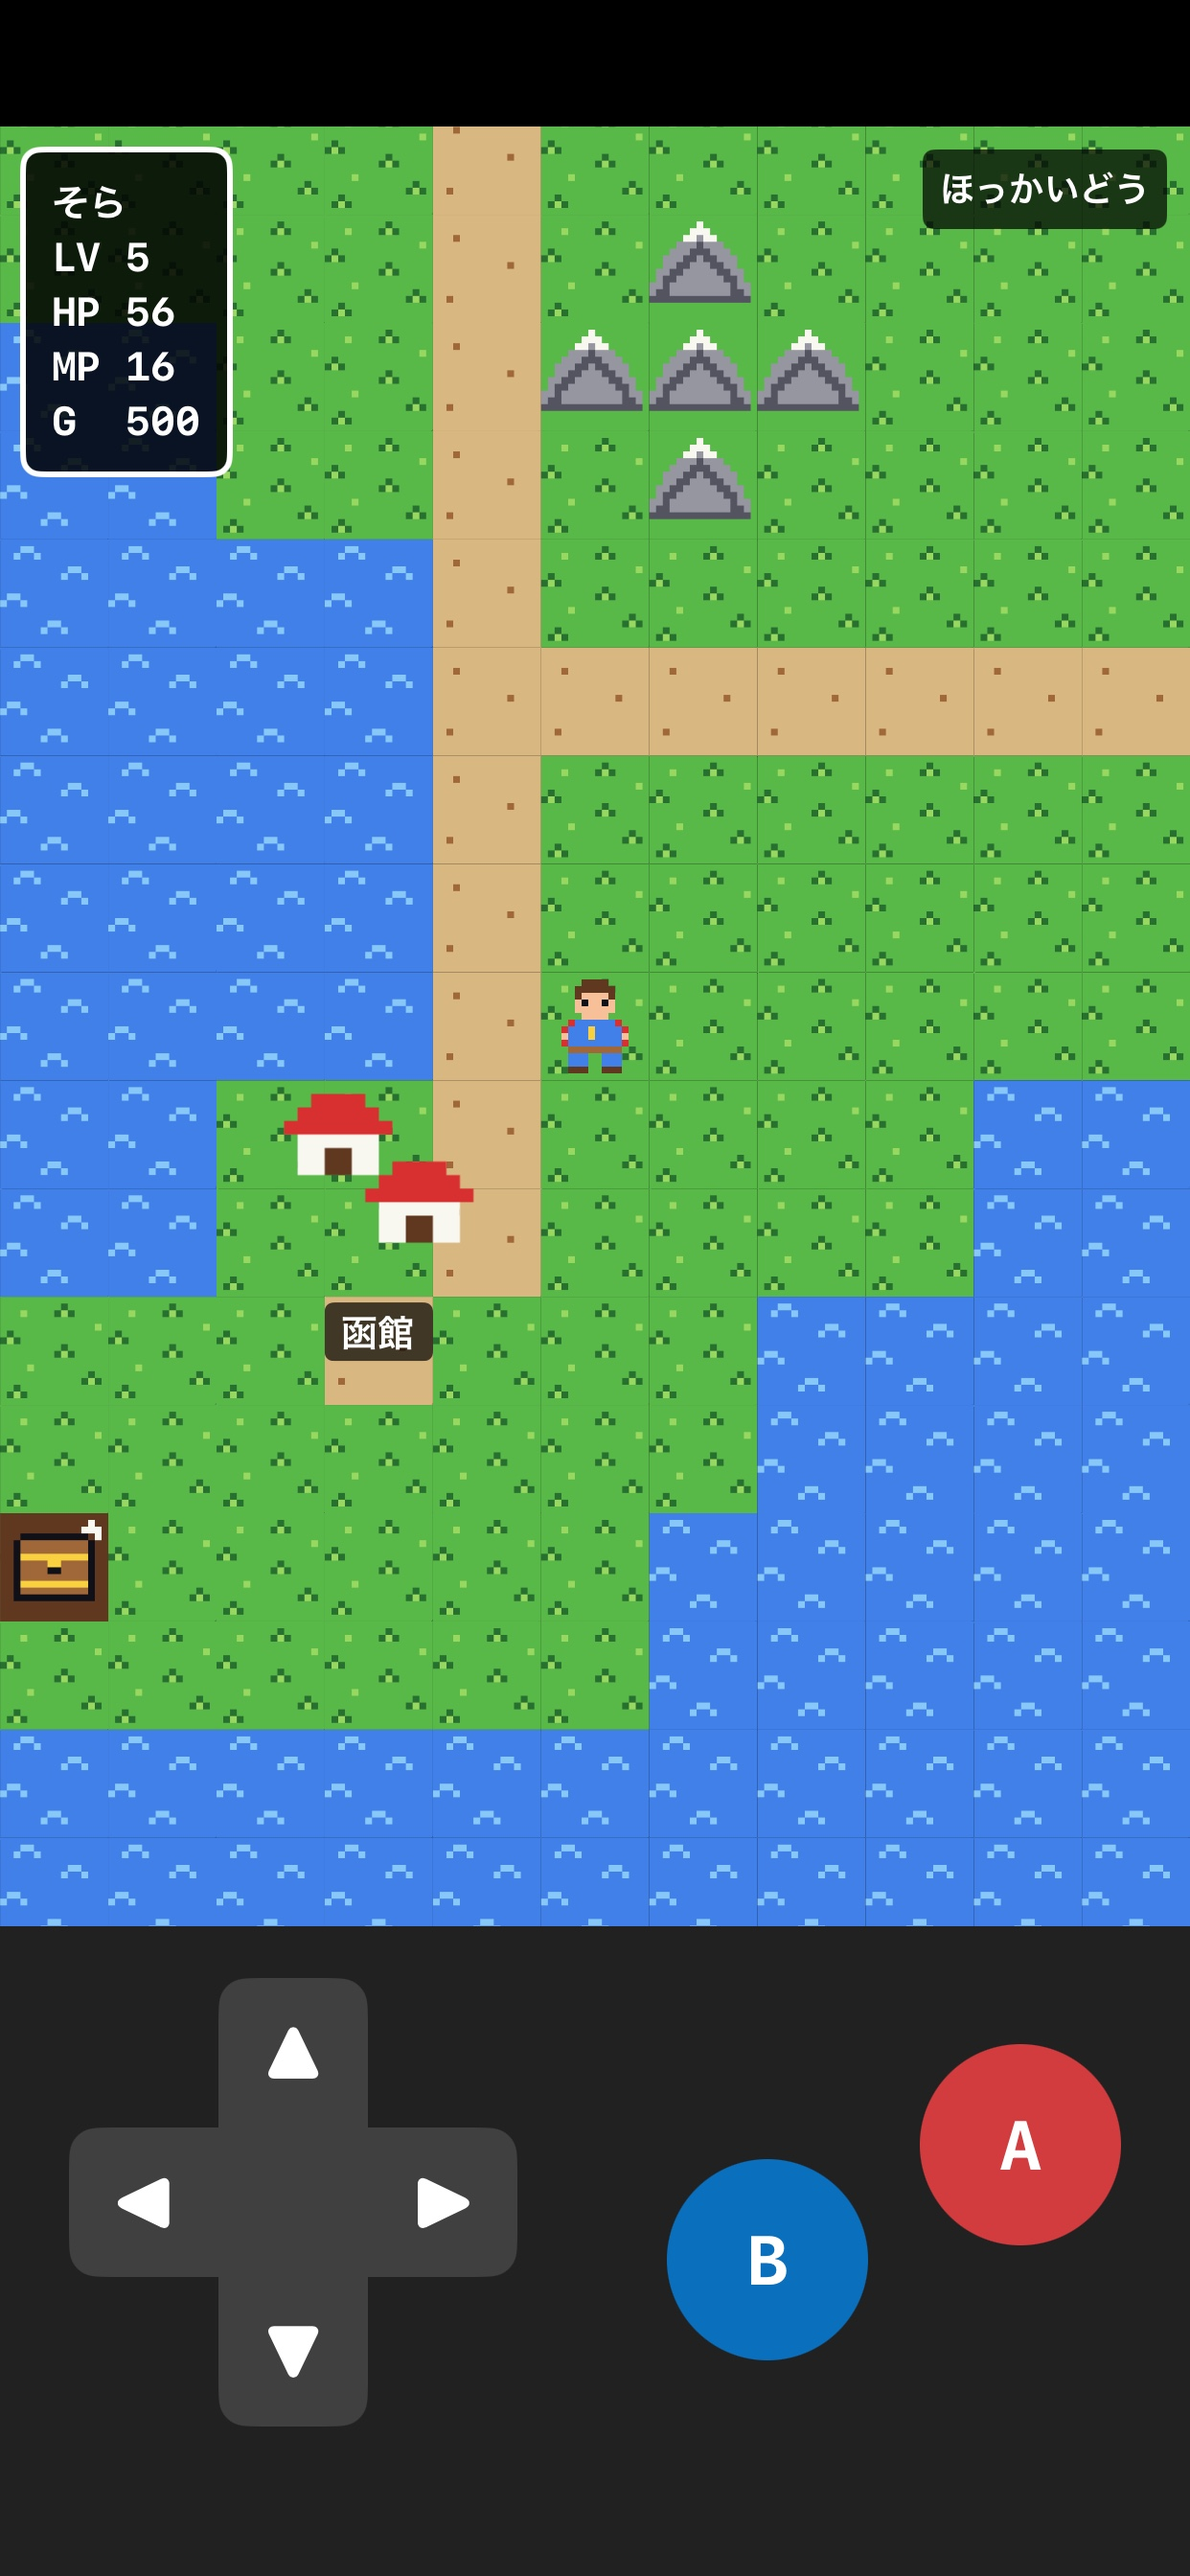
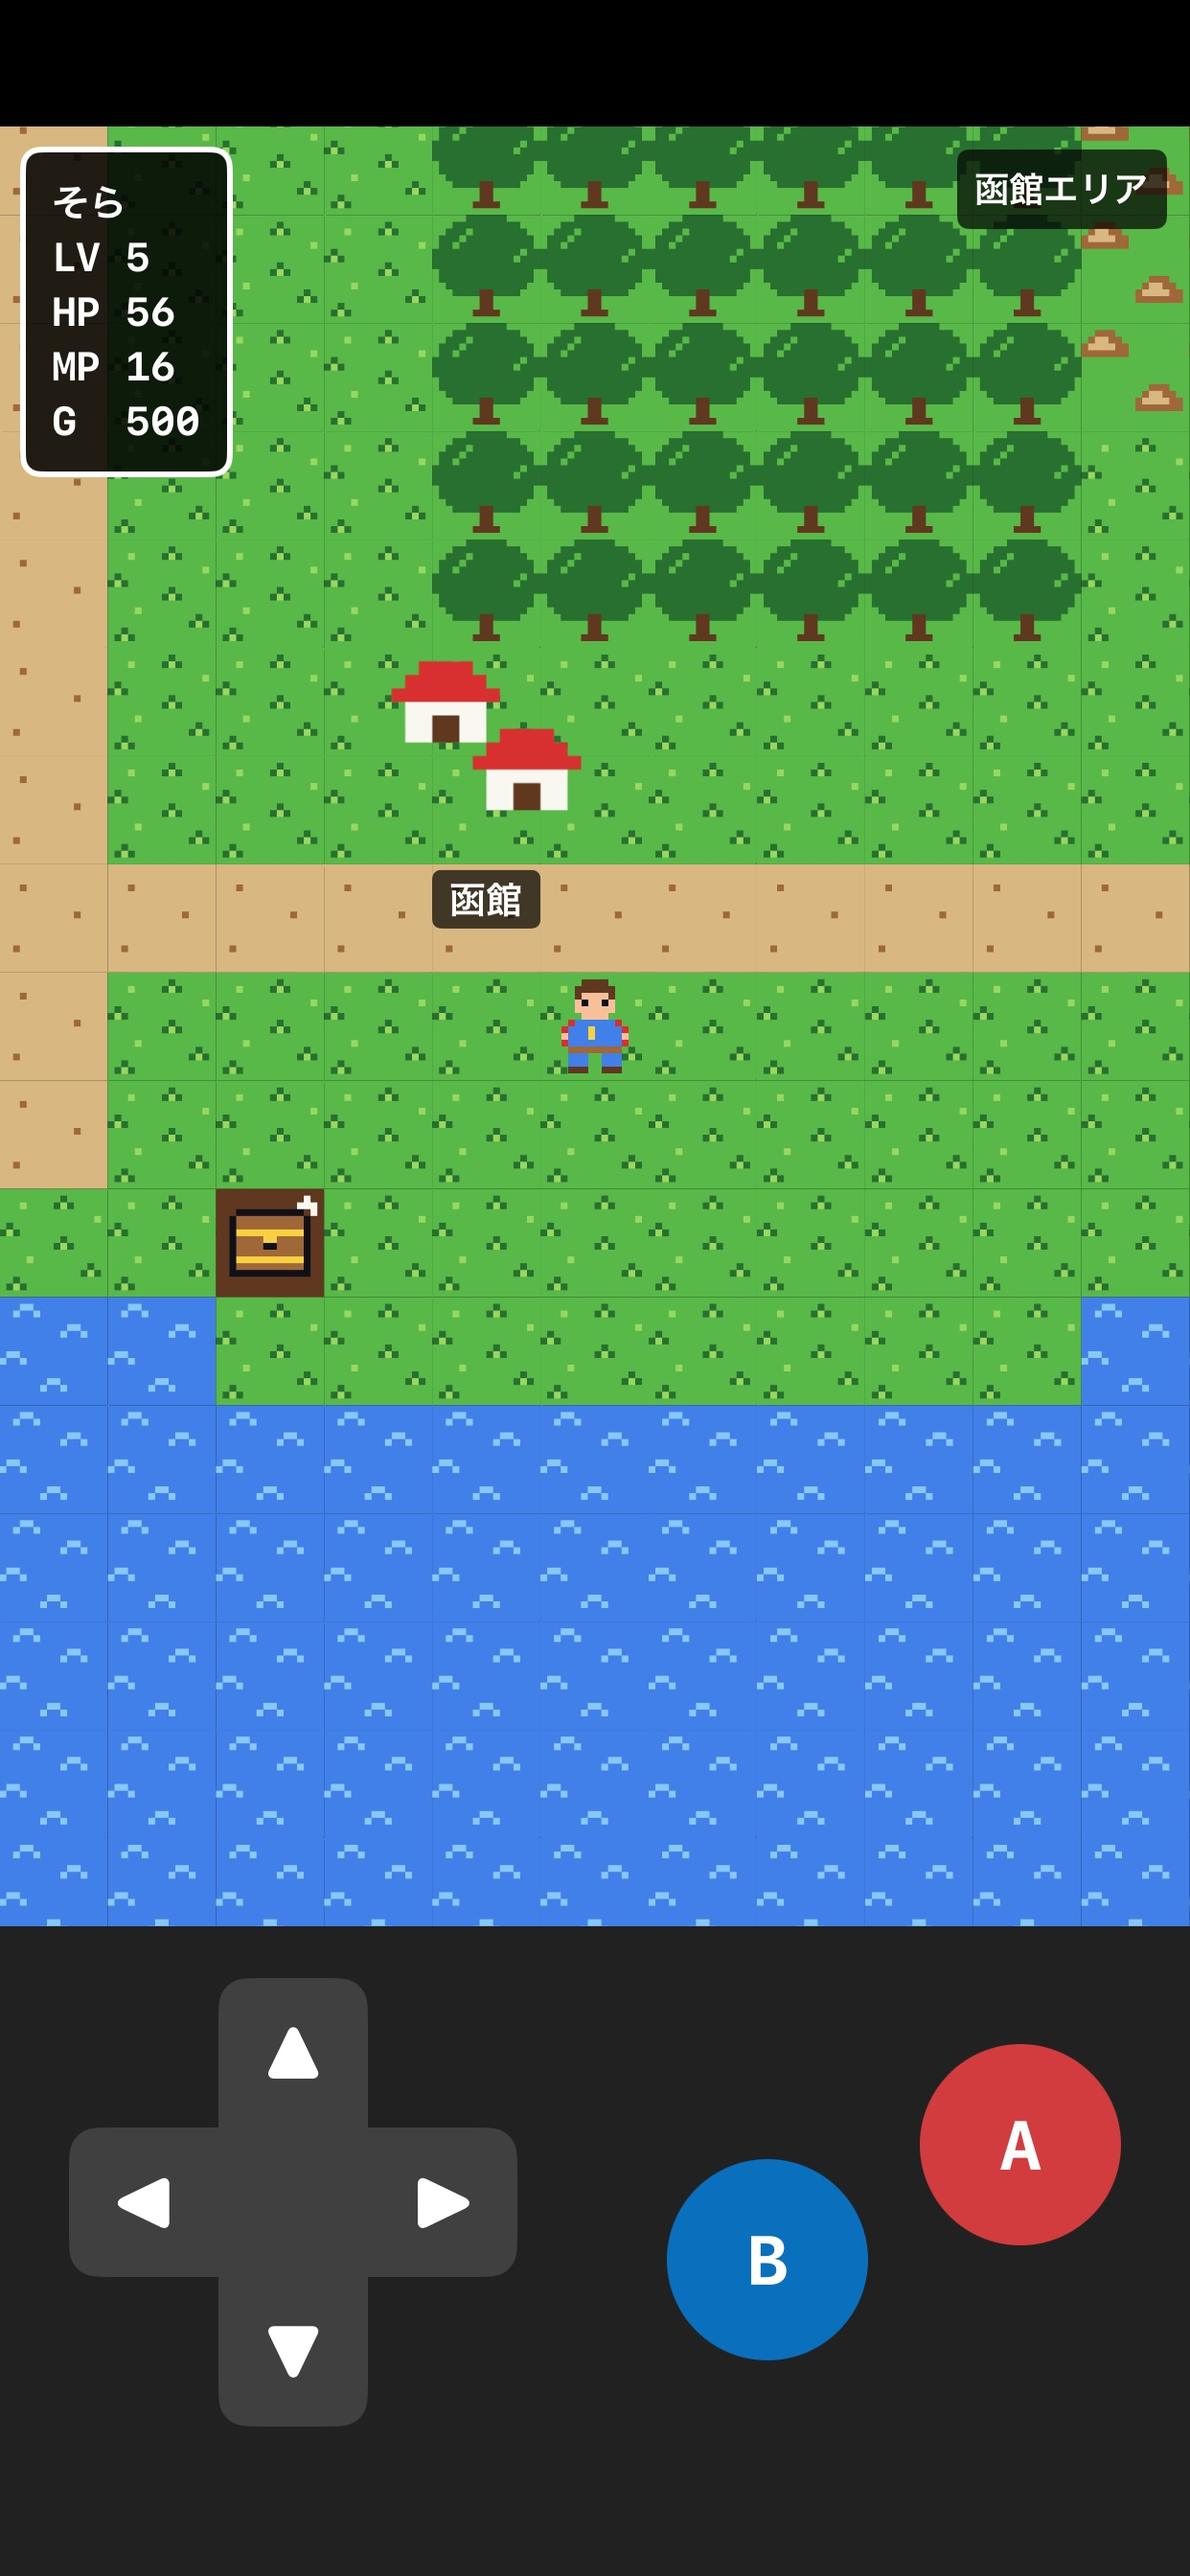
GeoHero: 1.1 の ストア用スクショと 文面を 書きかえ、審査に 提出した
- スクショを 6枚に 撮り直す（タイトル・フィールド・大沼・ちしきの チャンス・天狗・小樽の道具屋）
- 説明文・このバージョンの新機能・キーワード・英語案を 1.1 の中身に あわせる
- 2026-09-26 に 1.1（ビルド6）を 審査へ 提出

diff --git a/Apps/GeoHero/Docs/Store/listing.md b/Apps/GeoHero/Docs/Store/listing.md
@@ -11,7 +11,7 @@
 | サブタイトル | 北海道を歩く ドット絵のコマンドRPG |
 | ホーム画面の名前 | 地理の勇者（`CFBundleDisplayName`） |
 | バンドルID | `tech.sesame.geohero` |
-| バージョン / ビルド | 1.0 / 1 |
+| バージョン / ビルド | 1.1 / 6（1.0 / 1 は公開ずみ） |
 | プライマリ言語 | 日本語 |
 | カテゴリ | ゲーム → ロールプレイング（第2カテゴリ: アドベンチャー） |
 | 価格 | 無料（アプリ内課金なし） |
@@ -22,40 +22,64 @@
 
 ## 説明文（4000文字まで）
 
+1.1 で 3地方・9つの街に広げたので書き直した（2026-09-26）。
+
 ```
-北海道を歩いて、あやつられた守護神を解きはなつ——
-ドット絵とコマンド戦闘の、ちいさな一本道RPGです。
+北海道を旅して、まおうに あやつられた守護神を解きはなつ——
+歩いて 話して 地理を おぼえる、ドット絵のコマンドRPGです。
 
-■ 30分〜1時間で終わる、ちょうどいい冒険
-函館から札幌、そして知床へ。街で装備をととのえ、近くの山のほらあなへ。
-奥のぬしを倒すと 次の道がひらけます。これを3回くりかえすと結末です。
+■ 3つの地方を 飛行機でめぐる
+函館エリア（道南）→ 札幌・小樽 → 知床。
+地方ごとに 広いフィールドがあり、ボスを倒して もらう きっぷで
+空港から 次の地方へ 飛びます。
 
-■ 実在の地名を歩く
-舞台は北海道のかたちをした1枚の広いフィールド。
-函館・函館山・札幌・藻岩山・知床・羅臼岳を、街道づたいにたどります。
-次の目印へ近づくほど、出てくる魔物も手ごわくなります。
+■ 9つの街と 6つのほらあな
+函館・松前・大沼、札幌・小樽・定山渓、中標津・ウトロ・羅臼。
+五稜郭、松前城、大沼の島めぐり、小樽運河、定山渓の足湯、知床五湖……
+街を歩いて 人と話し、家に入り、名所の看板を読んで 物語を進めます。
+
+■ 地理の知識が 武器になる「ちしきの チャンス」
+こうげきすると ときどき 地理の問題が出ます。正解すれば おいうち！
+答えは 街の人や 看板が 教えてくれます。
+
+■ 寄り道も たっぷり
+ラーメンの出前、まいごの 白鳥のひな・ネコ・キツネの子さがし、
+名所をめぐる「めいしょスタンプ」、宝箱のある家。
+
+■ 名産の 道具と 装備
+ハスカップ、いかめし、みそラーメン、いくら丼。
+五稜郭の槍、松前の刀、小樽ガラスの剣、アットゥシ……
+お金をためて 上等な装備を ねらいましょう。
 
 ■ 北海道の魔物たち
-ポテトー、こんぶスライム、ホタテキッド、きたきつね、タラこぞう、
-ゆきおとこ、りゅうひょうゴーレム。1〜3体で出てきます。
-
-■ なつかしいコマンド戦闘
-こうげき・まほう・どうぐ・にげる。会心の一撃も出ます。
-レベルが上がると どこが伸びたか ひと目でわかり、
-ヒール・ファイア・ハイヒール・フレイムの4つを順に覚えます。
-やどやに泊まると自動でセーブします。
+ポテトー、こんぶスライム、さくらのせい、ななえりんご、ラーメンおばけ、
+シャチまる、りゅうひょうゴーレム。
+ボスは イカのぬし、駒ヶ岳のぬし、天狗、ヒグマのぬし、トドのぬし、そして 知床の守護神。
 
 ■ 絵も音も、すべてコードで
-ドット絵は16×16の文字列から、BGMと効果音はその場で合成しています。
+ドット絵は文字列から、BGMと効果音は その場で合成しています。
 外部の素材は使っていません。
 
 広告なし・課金なし・通信なし。オフラインで遊べます。
 ```
 
+## このバージョンの新機能（1.1）
+
+```
+大型アップデート！
+・北海道を 函館エリア／札幌・小樽／知床の 3地方に分け、空港から 飛行機で 旅するように
+・街が 3つから 9つに（松前・大沼・小樽・定山渓・中標津・ウトロ など）。家にも 入れます
+・新しいボス（駒ヶ岳のぬし・天狗・トドのぬし）と 新しい魔物
+・こうげき中に ときどき出る「ちしきの チャンス」。正解で おいうち
+・名産に ちなんだ 道具・装備が 22しゅるいに
+・寄り道の 頼まれごとと「めいしょスタンプ」
+・会話の 読みやすさや 戦いの バランスを 見なおしました
+```
+
 ## キーワード（100文字まで、カンマ区切り）
 
 ```
-RPG,ロールプレイング,ドット絵,レトロ,北海道,コマンドバトル,オフライン,広告なし,短編,冒険
+RPG,ドット絵,レトロ,北海道,地理,クイズ,函館,札幌,小樽,知床,コマンドバトル,オフライン,広告なし,冒険
 ```
 
 ## 英語（English (U.S.)）の掲載情報
@@ -69,22 +93,31 @@ RPG,ロールプレイング,ドット絵,レトロ,北海道,コマンドバト
 | Subtitle | Pixel-art RPG across Hokkaido |
 
 ```
-A small, hand-made RPG set on the island of Hokkaido, Japan.
+A hand-made RPG that travels across Hokkaido, Japan.
 Note: the game text is in Japanese only.
 
-- A one-hour adventure. Three towns, three caves, three bosses.
-- Real places: Hakodate, Mt. Hakodate, Sapporo, Mt. Moiwa, Shiretoko, Mt. Rausu.
-- Monsters get tougher the closer you walk to the next landmark.
-- Classic turn-based battles: Fight, Magic, Item, Run.
+- Three regions: Hakodate, Sapporo & Otaru, and Shiretoko. Fly between them from real airports.
+- Nine towns to explore: talk to people, enter houses, read landmark signs.
+- Geography quizzes pop up during attacks. Answer right for a bonus hit.
+- Side quests, a landmark stamp rally, and local-specialty items and gear.
+- Six bosses, including the Squid Lord, a Tengu, and the Guardian of Shiretoko.
 - Every sprite and every note is generated in code. No external assets.
 
 No ads. No in-app purchases. No network access. Plays fully offline.
 ```
 
+What's New（英語, 1.1）:
+
+```
+Big update! Hokkaido is now three regions (Hakodate, Sapporo & Otaru, Shiretoko) linked by flights.
+Nine towns with houses to enter, three new bosses, geography quiz chances during battle,
+22 local-specialty items and gear, side quests and a landmark stamp rally.
+```
+
 キーワード（英語, 100文字）:
 
 ```
-rpg,pixel,retro,turn-based,jrpg,offline,no ads,hokkaido,japan,adventure,short
+rpg,pixel,retro,turn-based,jrpg,offline,no ads,hokkaido,japan,geography,quiz,adventure
 ```
 
 ## URL
@@ -126,15 +159,16 @@ rpg,pixel,retro,turn-based,jrpg,offline,no ads,hokkaido,japan,adventure,short
 ## スクリーンショット
 
 `Tools/make_screenshots.sh` で撮り直せる。6.5インチ（1242×2688・透過なしJPEG）を
-`Docs/Store/screenshots/` に5枚。
+`Docs/Store/screenshots/` に6枚（1.1 で撮り直した）。
 
 | ファイル | 中身 |
 | --- | --- |
 | `65_1_title.jpg` | タイトル画面 |
-| `65_2_field.jpg` | 函館のまわり（街・ほらあな・宝箱・十字キー） |
-| `65_3_battle.jpg` | 魔物3体との戦闘 |
-| `65_4_boss.jpg` | ラスボス「知床の守護神」 |
-| `65_5_shop.jpg` | 道具屋（そうびの伸びしろが見える） |
+| `65_2_field.jpg` | 函館エリアのフィールド（函館の街・宝箱） |
+| `65_3_town.jpg` | 大沼の街（島を はしで わたる 湖） |
+| `65_4_quiz.jpg` | 戦闘の「ちしきの チャンス！」（松前の魔物3体） |
+| `65_5_boss.jpg` | ボス「天狗」 |
+| `65_6_shop.jpg` | 小樽の道具屋（名産の品ぞろえ） |
 
 **6.9インチ（1320×2868）は出さない。** 以前 別アプリで弾かれている。
 6.5インチだけ入れておけば、他のサイズは App Store 側が縮小して使う。
